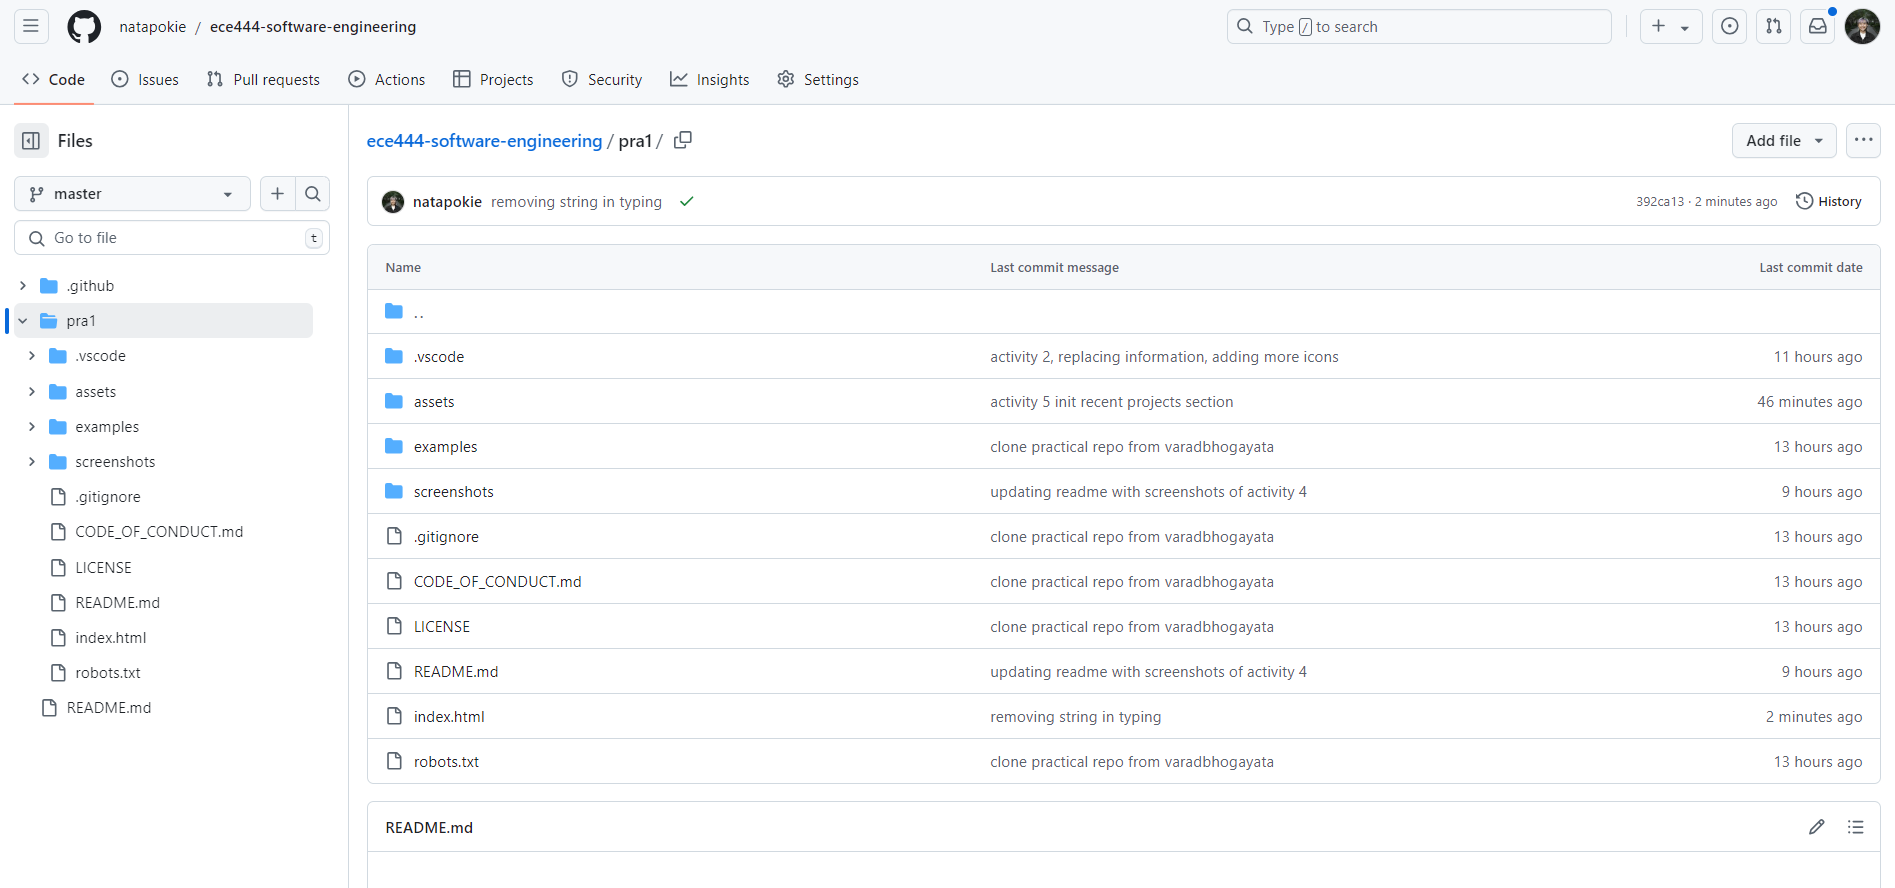
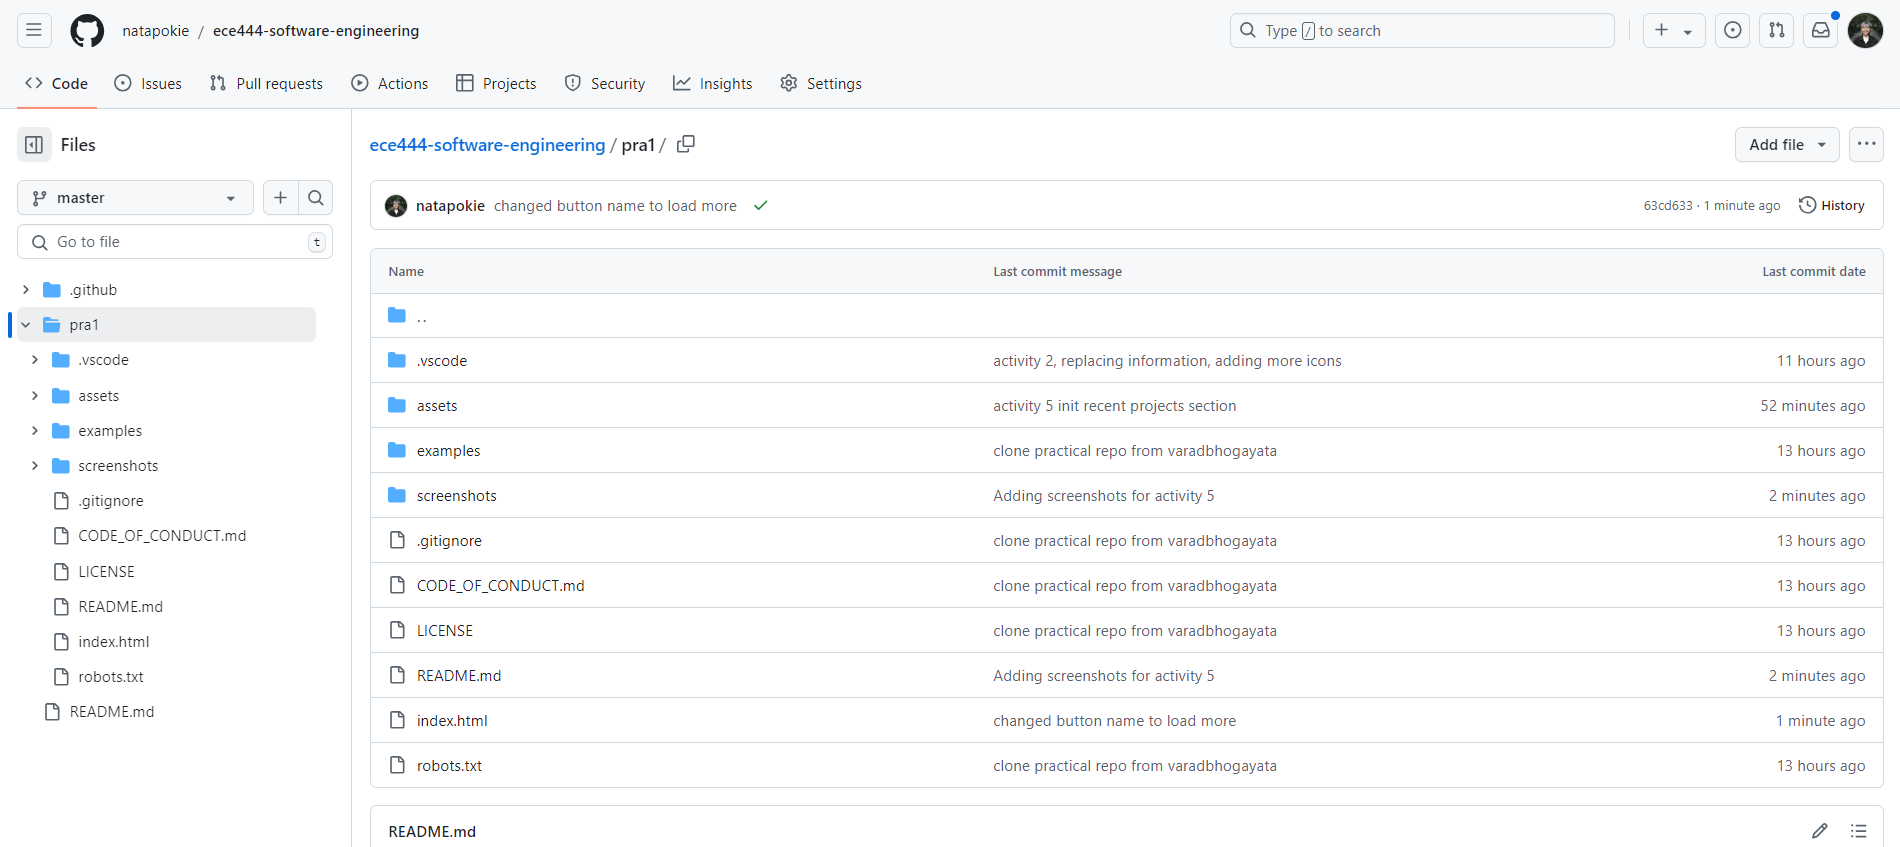
updating activity 5 screenshots

diff --git a/pra1/README.md b/pra1/README.md
@@ -39,5 +39,5 @@ _Screenshot of repo_
 ![Activity5b](./screenshots/activity5b.png)
 _Screenshot of recent project_
 
-![Activity5c](./screenshots/activity5b.png)
+![Activity5c](./screenshots/activity5c.png)
 _Screenshot of all projects_
